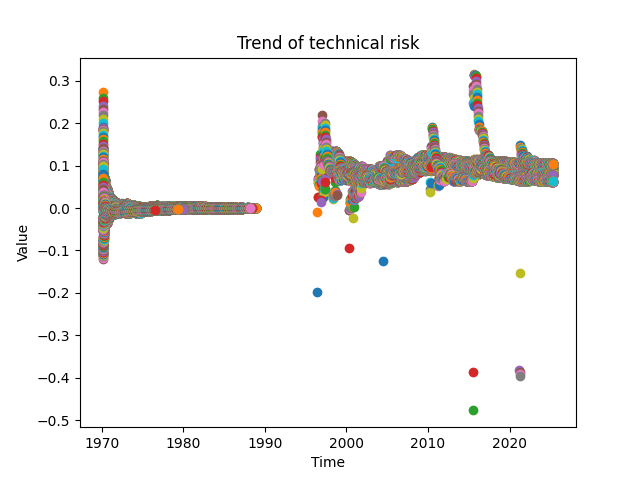
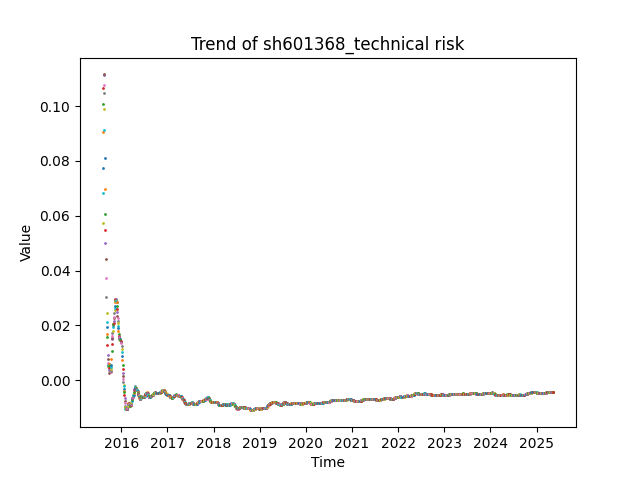
改risk的bug

diff --git a/risk.py b/risk.py
@@ -12,7 +12,7 @@ symbols = [
     "sh601368", "sh603291", "sh603759",
 ]
 
-def calculate_var(symbol: str,
+def calculate_var(df:pd.DataFrame,
                   confidence_level: float = 0.95) -> pd.Series:
     """
     计算单只股票基于非重叠周度对数收益的历史模拟 VaR（百分比形式，正数表示损失）
@@ -22,12 +22,6 @@ def calculate_var(symbol: str,
     Returns:
       VaR 值（正数），表示该水平下一周最大可能损失比例
     """
-    # 获取日线行情
-    df = ak.stock_zh_a_daily(symbol)
-    # 转成 DatetimeIndex
-    df['date'] = pd.to_datetime(df['date'])
-    df = df.set_index('date').sort_index()
-
     # 计算对数收益
     df['log_ret'] = np.log(df['close']) - np.log(df['close'].shift(1))
     df = df.dropna(subset=['log_ret'])
@@ -45,13 +39,12 @@ def calculate_var(symbol: str,
     )
     return var_series
 
-def calculate_technical(symbol: str)->pd.Series:
+def calculate_technical(df: pd.DataFrame)->pd.Series:
     """计算技术风险
 symbols(str):股票代码
 返回值:技术风险(pd.Series)
 -----
 通过相对涨幅进行量化"""
-    df = ak.stock_zh_a_daily(symbol)
     # 计算MA20
     min_periods = 20
     df['MA20'] = df['close'].rolling(window=min_periods).mean()
@@ -67,22 +60,31 @@ def draw(name:str,stock:str,series: pd.Series):
 name(str):图表名称
 stock(str):股票代码
 series(pd.Series):数据"""
-    plt.title(f'Trend of {name}')
+    plt.title(f'Trend of {stock}_{name}')
     plt.xlabel('Time')
     plt.ylabel('Value')
     for i in series.index:
-        plt.plot(i,series.loc[i],'o')
+        plt.scatter(i,series.loc[i],marker='o',s=1)
     plt.savefig(f'photo/{stock}_{name}.png')
+    plt.close()
 
 def init():
     os.makedirs('photo', exist_ok=True)
 
+def get_dataframe(symbol:str)->pd.DataFrame:
+    # 获取日线行情
+    df = ak.stock_zh_a_daily(symbol)
+    # 转成 DatetimeIndex
+    df['date'] = pd.to_datetime(df['date'])
+    return df.set_index('date').sort_index()
+
 if __name__ == "__main__":
     init()
     for sym in symbols:
-        var = calculate_var(sym)
-        tech = calculate_technical(sym)
+        df = get_dataframe(sym)
+        var = calculate_var(df)
+        tech = calculate_technical(df)
         print(f"{sym} 一周市场风险 = {var.iloc[-1] * 100:.2f}%")
         print(f"{sym} 技术风险 = {tech.iloc[-1] * 100:.2f}%")
-        draw('VaR',sym,var)
+        ##draw('VaR',sym,var)
         draw('technical risk',sym,tech)
